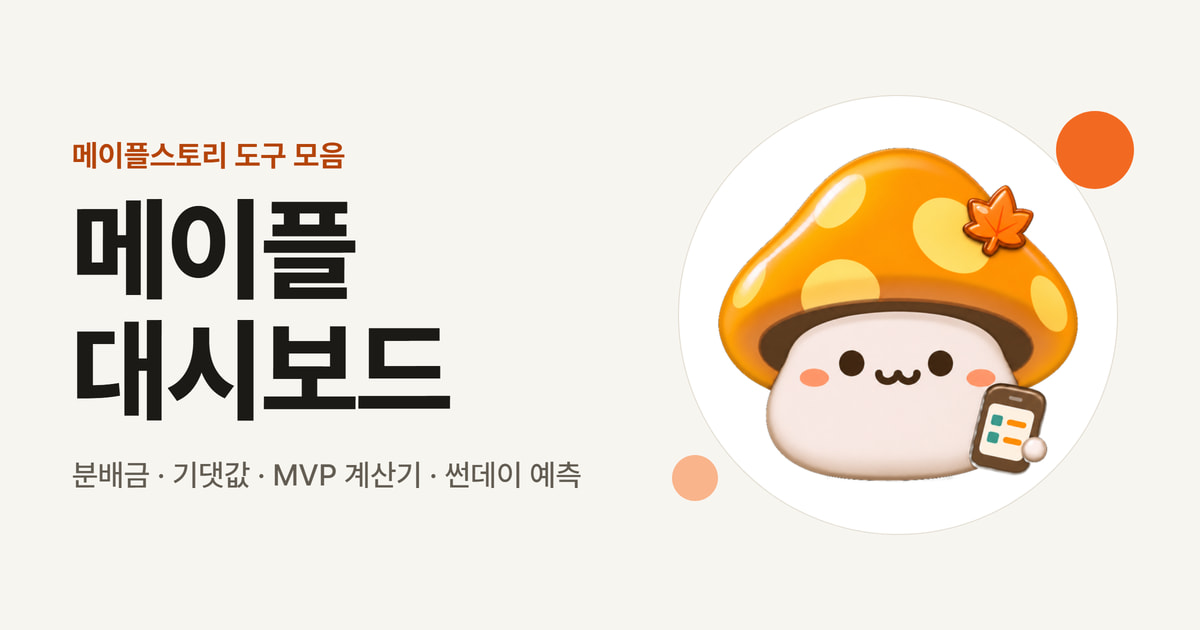
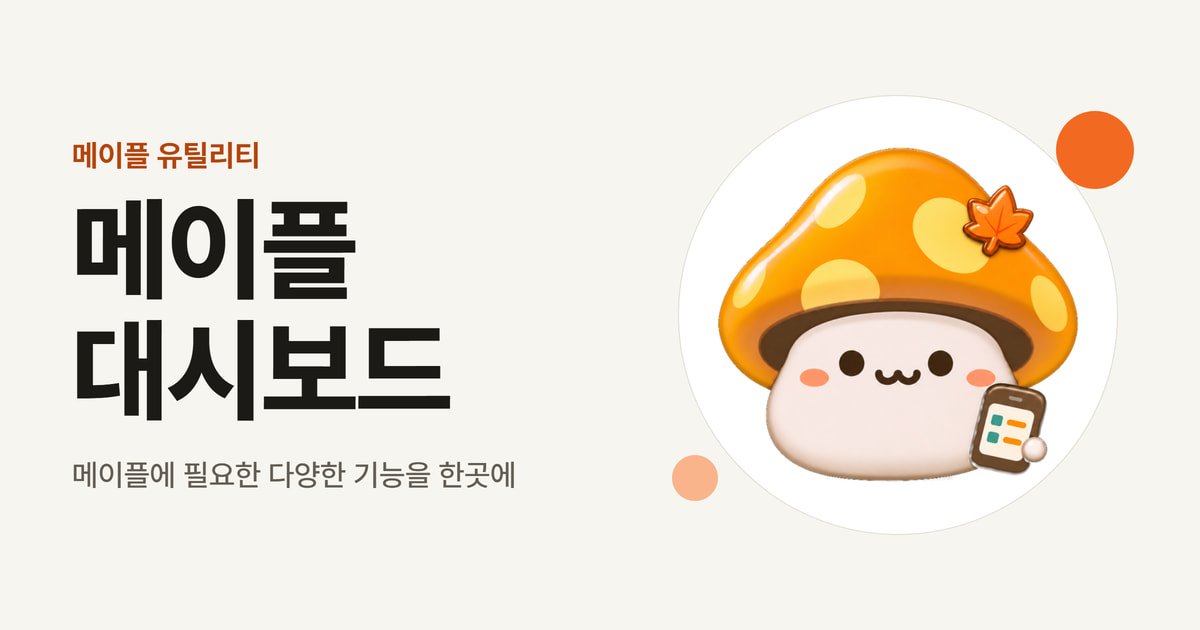
링크 썸네일 · 설명 문구를 "유틸리티 사이트"로
- 설명: "메이플스토리 유틸리티 사이트"
- 썸네일: 위 "메이플 유틸리티", 아래 "메이플에 필요한 다양한 기능을 한곳에"
  (도구 이름을 나열하지 않아 준비 중인 기능이 열려도 그대로 씀)

Changed region(s): [[0.0617, 0.7238, 0.4933, 0.7841], [0.1233, 0.2111, 0.3083, 0.2714]]

diff --git a/app/layout.tsx b/app/layout.tsx
@@ -30,7 +30,7 @@ export const metadata: Metadata = {
     default: "메이플 대시보드",
     template: "%s · 메이플 대시보드",
   },
-  description: "메이플스토리 분배금 · 기댓값 · MVP 계산기, 썬데이 예측 모음",
+  description: "메이플스토리 유틸리티 사이트",
 };
 
 export default function RootLayout({

diff --git a/.agents/handoff.md b/.agents/handoff.md
@@ -16,7 +16,7 @@
 - 개편(`redesign`) = `main` 과 같은 커밋, 원격과 같음. 다음 작업도 `redesign` 에서 하고 끝나면 `main` 에 올림. 푸시 · `main` 합치기는 사용자가 말할 때만.
 - **2026-11-11 밤 배포분(운영 4번째, `main` 푸시 — lint · test · build · 브라우저 확인, Codex 리뷰 지적 없음)**. 운영에서 볼 것: 금요일 공지 저장 직후 화면 반영(`revalidateTag`), 월요일 0시 전환. 내용: ① 썬데이 위쪽 = **B안 가로 띠**(사용자 확정): 이번 주 혜택(기록 뒤에만) → 테마 타일 3개 → 혜택 5개(`xl` 부터 한 줄 카드, 그 아래는 목록) → "샤이닝 스타포스 타임 예상" · "미라클 타임 예상" · 지난 썬데이 카드(`components/sunday/sunday-view.tsx`). ② 예상 시기 = 날짜 범위 대신 "다음 주 · n주 후"(다가오는 일요일 = 이번 주, `lib/sunday/view.ts` `weekRange` · `BigDayView.when`), "큰 날" 문구 없앰(사용자). ③ **월요일 0시(KST) 전환**: `/` · `/sunday` 를 요청마다 렌더링(`await connection()`, `revalidate` 없앰 — 캐시된 페이지는 방문자가 적으면 월요일 첫 방문자에게 지난 일요일을 보여 줌), DB 행은 `lib/sunday/live.ts` `unstable_cache`(1시간, 태그 `sunday-weeks`), Cron 은 저장 뒤 `revalidateTag(…, { expire: 0 })`. 테스트 `lib/sunday/view.test.ts`. ④ 분배금 5명 = 3 + 2 아랫줄 가운데(화면 `FIVE_CARD` + 이미지 복사 `lastRowShift`). ⑤ "3개에 포함" → "5개에 포함". ⑥(다음 커밋) 모바일 하위 탭 키움(높이 36px · 글자 13px · 간격 8px, `components/site-header.tsx`), 바닥글(개인정보처리방침)을 짧은 페이지에서도 화면 맨 아래로(`app/layout.tsx` `main` = flex column + 바닥글 `mt-auto`, 고정 띠 아님 · 모든 페이지에 굵게 유지 = 사용자 확정).
 - 썬데이 배치 시안 https://claude.ai/artifact/JN9fZmaSavhep1Lkcygy58 (B 확정, 시안 속 문구 · "공지 전" 설명은 옛것 → 코드가 기준), 원본 `.design-tmp/sunday/`(`.git/info/exclude` 로 이 PC 에서만 git 제외).
-- **링크 썸네일(OG 이미지) = C안 크림 · 큰 아이콘(사용자 확정 2026-11-11, `main` 푸시)**: `app/opengraph-image.jpg` 1200 × 630(전엔 256 × 256 옛 그림), `description` = "메이플스토리 분배금 · 기댓값 · MVP 계산기, 썬데이 예측 모음"(준비 중인 내 수익 뺌). **다시 만들기**: `C:/dev/_work/maple/og/og.html` 고친 뒤 프로젝트 폴더에서 `node C:/dev/_work/maple/og/build.mjs`(크롬 헤드리스로 2배 크기로 찍고 sharp 로 줄임, 글꼴 `C:/dev/_fonts/Pretendard`). 아이콘(`app/icon.png`)이나 도구 구성이 바뀌면 다시 만들기. 시안 https://claude.ai/artifact/5fFzDWih8azsAqPL1nHdM4 (원본 `.design-tmp/og/`).
+- **링크 썸네일(OG 이미지) = C안 크림 · 큰 아이콘(사용자 확정 2026-11-11, `main` 푸시)**: `app/opengraph-image.jpg` 1200 × 630(전엔 256 × 256 옛 그림), 문구(사용자 확정, 준비 중인 기능까지 덮게 도구 이름을 나열하지 않음): `description` = "메이플스토리 유틸리티 사이트", 썸네일 위 "메이플 유틸리티" · 아래 "메이플에 필요한 다양한 기능을 한곳에"(아래 줄은 Claude 가 고른 말, 위 글씨에 "사이트"는 안 붙임 — 설명과 겹침, 2026-11-12 `main` 푸시). **다시 만들기**: `C:/dev/_work/maple/og/og.html` 고친 뒤 프로젝트 폴더에서 `node C:/dev/_work/maple/og/build.mjs`(크롬 헤드리스로 2배 크기로 찍고 sharp 로 줄임, 글꼴 `C:/dev/_fonts/Pretendard`). 아이콘(`app/icon.png`)이나 도구 구성이 바뀌면 다시 만들기. 시안 https://claude.ai/artifact/5fFzDWih8azsAqPL1nHdM4 (원본 `.design-tmp/og/`).
 - 로그인 작업 = 로컬 브랜치 `members`(`redesign` 위, 푸시 안 함). 아래 "다음 할 일" 2번.
 - Vercel 환경변수 `NEXON_API_KEY` · `SUPABASE_SERVICE_ROLE_KEY` · `CLOVA_OCR_URL` · `CLOVA_OCR_SECRET` 등록됨(Production + Preview, 이름만 확인).
 - `vendor/` 는 git 밖(`.gitignore` · tsconfig `exclude` · eslint `globalIgnores`) — 핀볼 원본 참고용, 광고 코드 · 인물 그림을 공개 저장소에 안 올림.
